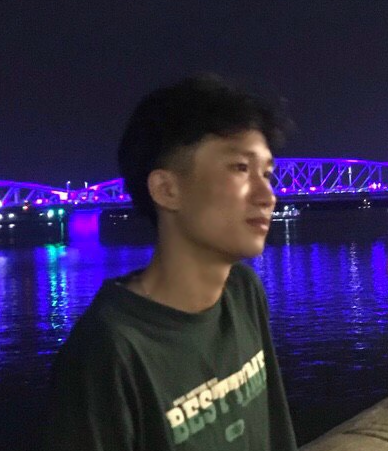
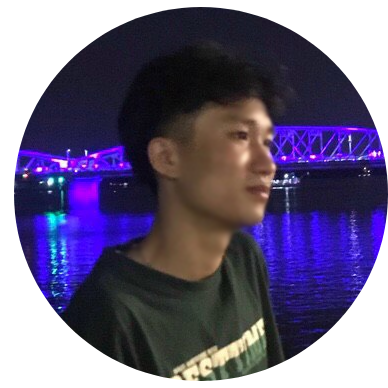
responsive home component

diff --git a/src/components/Home/Home.tsx b/src/components/Home/Home.tsx
@@ -1,0 +1,68 @@
+import { useEffect, useRef, useState } from 'react';
+import avatar from '../../assets/img/avatar.png'
+import { BsDownload } from 'react-icons/bs';
+import './Home.css'
+
+const Home = () => {
+
+    const [scrollPosition, setScrollPosition] = useState<number>(0);
+    const resumeUrl: string = 'https://drive.google.com/file/d/1e15eJ0Ujl8mSJXyJExWf031LdB_BhnH2/view?usp=drive_link';
+
+    const handleDownload = () => {
+        window.open(resumeUrl, '_blank');
+    }
+
+    const homeRef = useRef<HTMLDivElement | null>(null);
+
+    const observer = new IntersectionObserver((entries) => {
+        entries.forEach((entry) => {
+            if (entry.isIntersecting) {
+                entry.target.classList.add('home-show');
+            } else {
+                entry.target.classList.remove('home-show');
+            }
+        });
+    });
+
+    useEffect(() => {
+        const handleScroll = () => {
+            setScrollPosition(window.scrollY);
+        };
+
+        window.addEventListener('scroll', handleScroll);
+
+        const hiddenElements = document.querySelectorAll('.home-hiden');
+        hiddenElements.forEach((element) => {
+            observer.observe(element);
+        });
+
+        return () => {
+            window.removeEventListener('scroll', handleScroll);
+        };
+    }, []);
+
+    return (
+        <div className='home scrolling-text font-roboto font-medium bg-[#0f0907] flex flex-col' style={{ left: `calc(100% - ${scrollPosition}px)` }}>
+            <div className='content text-xl px-2 flex flex-col justify-center items-center text-center mb-4 h-screen'>
+                <div className='flex items-center w-2/5 justify-center flex-wrap lg:px-6 lg:py-12'>
+                    <div className="name space-y-4 font-extrabold px-2 lg:w-1/2 w-full">
+                        <p className='my-2 text-3xl lg:text-4xl lg:mb-4'>Xin Chao, </p>
+                        <span>I'm</span>
+                        <span className='text-[1.5rem] ml-2 text-blue-400 opacity-1 lg:text-[2rem]'>Tanh</span>
+                    </div>
+                    <div className="avatar flex justify-center text-centers my-10 justify-centers lg:my-12 lg:w-1/2 w-full">
+                        <img className='border-spacing w-48 rounded-full' src={avatar} alt="" />
+                    </div>
+                </div>
+                <p ref={homeRef} style={{ left: `calc(100% - ${scrollPosition}px)` }} className='home-hiden text-sm mt-4 text-gray-300 font-medium lg:text-base '> Backend Web Developer | Blogger </p>
+                <div ref={homeRef} style={{ left: `calc(100% - ${scrollPosition}px)` }} className='home-hiden mt-10 flex text-base font-extrabold mtb-5 p-3 justify-between rounded-md text-black bg-blue-400 items-center lg:mt-10' onClick={handleDownload}>
+                    <BsDownload>
+                    </BsDownload>
+                    <button className='ml-2'>My Resume</button>
+                </div>
+            </div>
+        </div>
+    )
+}
+
+export default Home

diff --git a/src/components/Layout.tsx b/src/components/Layout.tsx
@@ -1,11 +1,11 @@
 import { useState } from 'react'
-import Header from './Header'
-import About from './About'
-import Project from './Project'
-import Skills from './Skills'
-import Contact from './Contact'
+import Header from './Header/Header'
+import About from './About/About'
+import Project from './Projects/Project'
+import Skills from './Skills/Skills'
+import Contact from './Contact/Contact'
 import Footer from './Footer'
-import Home from './Home'
+import Home from './Home/Home'
 import { BsSun } from 'react-icons/bs'
 import {MdDarkMode} from 'react-icons/md'
 const Layout = () => {

diff --git a/index.html b/index.html
@@ -3,9 +3,9 @@
 
 <head>
   <meta charset="UTF-8" />
-  <link rel="icon" type="image/svg+xml" href="/vite.svg" />
+  <link rel="icon" type="image/svg+xml" href="./src/assets/img/avatar.png" />
   <meta name="viewport" content="width=device-width, initial-scale=1.0" />
-  <title>Vite + React + TS</title>
+  <title>Van Tanh Ly</title>
 
   <!-- Google font -->
   <link rel="preconnect" href="https://fonts.googleapis.com">

diff --git a/src/components/Home/Home.css b/src/components/Home/Home.css
@@ -1,0 +1,12 @@
+.home-hiden {
+    opacity: 0;
+    filter: blur(5px);
+    transform: translateX(-100%);
+    transition: all 1s;
+}
+
+.home-show {
+    opacity: 1;
+    filter: blur(0px);
+    transform: translateX(0);
+}

diff --git a/src/components/Header/Header.tsx b/src/components/Header/Header.tsx
@@ -1,5 +1,5 @@
 import { useState } from 'react'
-import '../index.css'
+import '../../index.css'
 
 const Header = () => {
     const [active, setActive] = useState('home');
